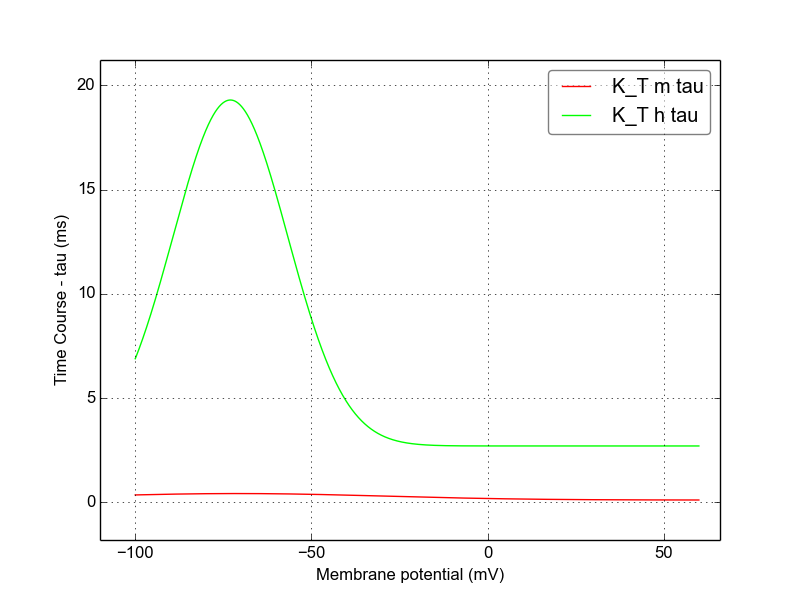
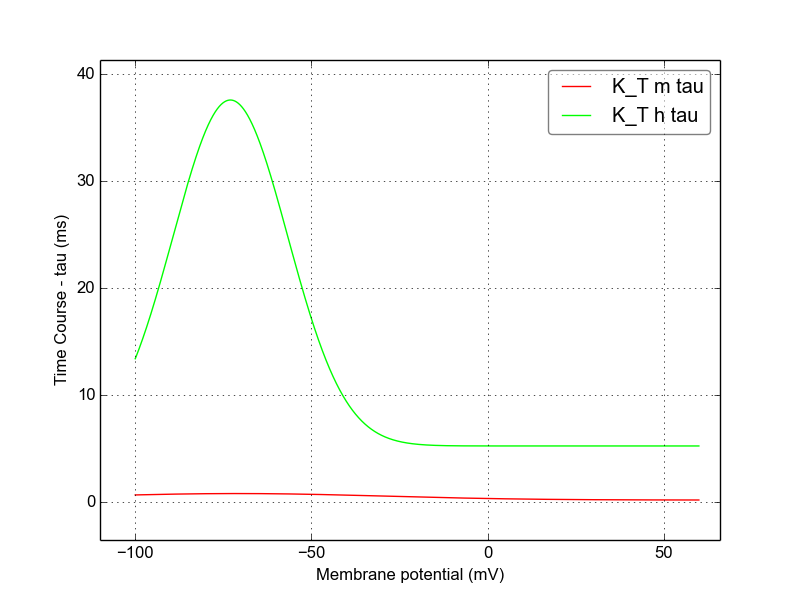
Added and tested Kv3_1.channel.nml

diff --git a/CellTypesDatabase/models/NeuroML2/channel_summary/ChannelInfo.html b/CellTypesDatabase/models/NeuroML2/channel_summary/ChannelInfo.html
@@ -2,73 +2,8 @@
     <title>Channel information</title>
     
     <body>
-        <p style="font-family:arial">Channel information at: T = 34.0 degC, E_rev = 0 mV, [Ca2+] = 0.00043 mM</p>
+        <p style="font-family:arial">Channel information at: T = 26.0 degC, E_rev = 0 mV, [Ca2+] = 0.00043 mM</p>
         <table>
-            <tr>
-        <td width="130px">
-            <p style="font-size:80%;font-family:arial"><b>NaTa</b></p>
-            <p style="font-size:80%;font-family:arial"><a href="../NaTa.channel.nml">NaTa.channel.nml</a></p>
-            <p style="font-size:80%;background-color:#1E90FF;"><b>Ion: na</b></p>
-            <p style="font-size:80%;font-family:arial">g = gmax * m<sup>3</sup> * h </p><br/>
-            <p style="font-size:80%;font-family:arial">Fast inactivating Na+ current
-Modified slightly for Allen Institute cell models from Hay et al. 2011 version:
- - Added Q10 scaling to rate variables 
- - Values for midpoint changed to match mod            
-            
-Comment from original mod file: 
-:Reference :Colbert and Pan 2002</p><br/>
-        </td>
-        <td>
-        <a href="NaTa.inf.png"><img alt="NaTa steady state" src="NaTa.inf.png" height="300"/></a>
-        </td>
-        <td>
-        <a href="NaTa.tau.png"><img alt="NaTa time course" src="NaTa.tau.png" height="300"/></a>
-        </td>
-        </tr>
-            <tr>
-        <td width="130px">
-            <p style="font-size:80%;font-family:arial"><b>NaTs</b></p>
-            <p style="font-size:80%;font-family:arial"><a href="../NaTs.channel.nml">NaTs.channel.nml</a></p>
-            <p style="font-size:80%;background-color:#1E90FF;"><b>Ion: na</b></p>
-            <p style="font-size:80%;font-family:arial">g = gmax * m<sup>3</sup> * h </p><br/>
-            <p style="font-size:80%;font-family:arial">Fast inactivating Na+ current. 
-Modified slightly for Allen Institute cell models from Hay et al. 2011 version:
- - Added Q10 scaling to rate variables 
- - Values for midpoint changed to match mod 
-            
-Comment from mod file (NaTs2_t.mod): took the NaTa and shifted both activation/inactivation by 6 mv</p><br/>
-        </td>
-        <td>
-        <a href="NaTs.inf.png"><img alt="NaTs steady state" src="NaTs.inf.png" height="300"/></a>
-        </td>
-        <td>
-        <a href="NaTs.tau.png"><img alt="NaTs time course" src="NaTs.tau.png" height="300"/></a>
-        </td>
-        </tr>
-            <tr>
-        <td width="130px">
-            <p style="font-size:80%;font-family:arial"><b>Nap</b></p>
-            <p style="font-size:80%;font-family:arial"><a href="../Nap.channel.nml">Nap.channel.nml</a></p>
-            <p style="font-size:80%;background-color:#1E90FF;"><b>Ion: na</b></p>
-            <p style="font-size:80%;font-family:arial">g = gmax * m * h </p><br/>
-            <p style="font-size:80%;font-family:arial">Persistent Na+ current
-Modified for Allen Institute cell models from Hay et al. 2011 version:
-- Form of conductance expression changed from: g = gbar * m^3 * h to: g = gbar * minf * h (comment in mod: assuming instantaneous activation as modeled by Magistretti and Alonso)
-- Added Q10 scaling to rate variables            
-
-Comment from original mod file: 
-:Comment : mtau deduced from text (said to be 6 times faster than for NaTa)
-:Comment : so I used the equations from NaT and multiplied by 6
-:Reference : Modeled according to kinetics derived from Magistretti and Alonso 1999
-:Comment: corrected rates using q10 = 2.3, target temperature 34, orginal 21</p><br/>
-        </td>
-        <td>
-        <a href="Nap.inf.png"><img alt="Nap steady state" src="Nap.inf.png" height="300"/></a>
-        </td>
-        <td>
-        <a href="Nap.tau.png"><img alt="Nap time course" src="Nap.tau.png" height="300"/></a>
-        </td>
-        </tr>
             <tr>
         <td width="130px">
             <p style="font-size:80%;font-family:arial"><b>K_P</b></p>
@@ -119,84 +54,20 @@ Comment from original mod file:
         </tr>
             <tr>
         <td width="130px">
-            <p style="font-size:80%;font-family:arial"><b>Im</b></p>
-            <p style="font-size:80%;font-family:arial"><a href="../Im.channel.nml">Im.channel.nml</a></p>
+            <p style="font-size:80%;font-family:arial"><b>Kv3_1</b></p>
+            <p style="font-size:80%;font-family:arial"><a href="../Kv3_1.channel.nml">Kv3_1.channel.nml</a></p>
             <p style="font-size:80%;background-color:#CD5C5C;"><b>Ion: k</b></p>
             <p style="font-size:80%;font-family:arial">g = gmax * m </p><br/>
-            <p style="font-size:80%;font-family:arial">Muscarinic K+ current
-Modified slightly for Allen Institute cell models from Hay et al. 2011 version:
- - Added Q10 scaling to rate variables 
+            <p style="font-size:80%;font-family:arial">Fast, non inactivating K+ current (Kv3-like)
             
 Comment from original mod file: 
-:Reference : :		Adams et al. 1982 - M-currents and other potassium currents in bullfrog sympathetic neurones
-:Comment: corrected rates using q10 = 2.3, target temperature 34, orginal 21</p><br/>
+:Reference : :		Characterization of a Shaw-related potassium channel family in rat brain, The EMBO Journal, vol.11, no.7,2473-2486 (1992)</p><br/>
         </td>
         <td>
-        <a href="Im.inf.png"><img alt="Im steady state" src="Im.inf.png" height="300"/></a>
+        <a href="Kv3_1.inf.png"><img alt="Kv3_1 steady state" src="Kv3_1.inf.png" height="300"/></a>
         </td>
         <td>
-        <a href="Im.tau.png"><img alt="Im time course" src="Im.tau.png" height="300"/></a>
-        </td>
-        </tr>
-            <tr>
-        <td width="130px">
-            <p style="font-size:80%;font-family:arial"><b>Ca_LVA</b></p>
-            <p style="font-size:80%;font-family:arial"><a href="../Ca_LVA.channel.nml">Ca_LVA.channel.nml</a></p>
-            <p style="font-size:80%;background-color:#8FBC8F;"><b>Ion: ca</b></p>
-            <p style="font-size:80%;font-family:arial">g = gmax * m<sup>2</sup> * h </p><br/>
-            <p style="font-size:80%;font-family:arial">Low voltage activated Ca2+ current
-Modified slightly for Allen Institute cell models from Hay et al. 2011 version:
- - Added Q10 scaling to rate variables 
-            
-Comment from original mod file: 
-Note: mtau is an approximation from the plots
-:Reference : :		Avery and Johnston 1996, tau from Randall 1997
-:Comment: shifted by -10 mv to correct for junction potential
-:Comment: corrected rates using q10 = 2.3, target temperature 34, orginal 21</p><br/>
-        </td>
-        <td>
-        <a href="Ca_LVA.inf.png"><img alt="Ca_LVA steady state" src="Ca_LVA.inf.png" height="300"/></a>
-        </td>
-        <td>
-        <a href="Ca_LVA.tau.png"><img alt="Ca_LVA time course" src="Ca_LVA.tau.png" height="300"/></a>
-        </td>
-        </tr>
-            <tr>
-        <td width="130px">
-            <p style="font-size:80%;font-family:arial"><b>Ca_HVA</b></p>
-            <p style="font-size:80%;font-family:arial"><a href="../Ca_HVA.channel.nml">Ca_HVA.channel.nml</a></p>
-            <p style="font-size:80%;background-color:#8FBC8F;"><b>Ion: ca</b></p>
-            <p style="font-size:80%;font-family:arial">g = gmax * m<sup>2</sup> * h </p><br/>
-            <p style="font-size:80%;font-family:arial">High voltage activated Ca2+ current. 
-NOTE: Most Allen Institute channel models from Hay et al. 2011 use Q10 scaling. This one doesn't...
-See https://github.com/OpenSourceBrain/AllenInstituteNeuroML/issues/2
-            
-Comment from original mod file: 
-Reuveni, Friedman, Amitai, and Gutnick, J.Neurosci. 1993</p><br/>
-        </td>
-        <td>
-        <a href="Ca_HVA.inf.png"><img alt="Ca_HVA steady state" src="Ca_HVA.inf.png" height="300"/></a>
-        </td>
-        <td>
-        <a href="Ca_HVA.tau.png"><img alt="Ca_HVA time course" src="Ca_HVA.tau.png" height="300"/></a>
-        </td>
-        </tr>
-            <tr>
-        <td width="130px">
-            <p style="font-size:80%;font-family:arial"><b>Ih</b></p>
-            <p style="font-size:80%;font-family:arial"><a href="../Ih.channel.nml">Ih.channel.nml</a></p>
-            <p style="font-size:80%;background-color:#A9A9A9;"><b>Ion: hcn</b></p>
-            <p style="font-size:80%;font-family:arial">g = gmax * m </p><br/>
-            <p style="font-size:80%;font-family:arial">Non-specific cation current
-            
-Comment from original mod file: 
-Reference : :		Kole,Hallermann,and Stuart, J. Neurosci. 2006</p><br/>
-        </td>
-        <td>
-        <a href="Ih.inf.png"><img alt="Ih steady state" src="Ih.inf.png" height="300"/></a>
-        </td>
-        <td>
-        <a href="Ih.tau.png"><img alt="Ih time course" src="Ih.tau.png" height="300"/></a>
+        <a href="Kv3_1.tau.png"><img alt="Kv3_1 time course" src="Kv3_1.tau.png" height="300"/></a>
         </td>
         </tr>
         </table>

diff --git a/CellTypesDatabase/models/NeuroML2/compare_nml2_mods.py b/CellTypesDatabase/models/NeuroML2/compare_nml2_mods.py
@@ -8,6 +8,7 @@ chans = ['Ca_LVA', 'NaTa']
 chans = ['K_P', 'K_T']
 chans = ['Nap']
 chans = ['Ih', 'Im']
+chans = ['Kv3_1']
 
 problematic = []
 

diff --git a/CellTypesDatabase/models/NeuroML2/channel_summary/README.md b/CellTypesDatabase/models/NeuroML2/channel_summary/README.md
@@ -1,74 +1,9 @@
 Channel information
 ===================
     
-<p style="font-family:arial">Channel information at: T = 34.0 degC, E_rev = 0 mV, [Ca2+] = 0.00043 mM</p>
+<p style="font-family:arial">Channel information at: T = 26.0 degC, E_rev = 0 mV, [Ca2+] = 0.00043 mM</p>
 
 <table>
-    <tr>
-<td width="120px">
-            <sup><b>NaTa</b><br/>
-            <a href="../NaTa.channel.nml">NaTa.channel.nml</a><br/>
-            <b>Ion: na</b><br/>
-            <i>g = gmax * m<sup>3</sup> * h </i><br/>
-            Fast inactivating Na+ current
-Modified slightly for Allen Institute cell models from Hay et al. 2011 version:
- - Added Q10 scaling to rate variables 
- - Values for midpoint changed to match mod            
-            
-Comment from original mod file: 
-:Reference :Colbert and Pan 2002</sup>
-</td>
-<td>
-<a href="NaTa.inf.png"><img alt="NaTa steady state" src="NaTa.inf.png" height="220"/></a>
-</td>
-<td>
-<a href="NaTa.tau.png"><img alt="NaTa time course" src="NaTa.tau.png" height="220"/></a>
-</td>
-</tr>
-    <tr>
-<td width="120px">
-            <sup><b>NaTs</b><br/>
-            <a href="../NaTs.channel.nml">NaTs.channel.nml</a><br/>
-            <b>Ion: na</b><br/>
-            <i>g = gmax * m<sup>3</sup> * h </i><br/>
-            Fast inactivating Na+ current. 
-Modified slightly for Allen Institute cell models from Hay et al. 2011 version:
- - Added Q10 scaling to rate variables 
- - Values for midpoint changed to match mod 
-            
-Comment from mod file (NaTs2_t.mod): took the NaTa and shifted both activation/inactivation by 6 mv</sup>
-</td>
-<td>
-<a href="NaTs.inf.png"><img alt="NaTs steady state" src="NaTs.inf.png" height="220"/></a>
-</td>
-<td>
-<a href="NaTs.tau.png"><img alt="NaTs time course" src="NaTs.tau.png" height="220"/></a>
-</td>
-</tr>
-    <tr>
-<td width="120px">
-            <sup><b>Nap</b><br/>
-            <a href="../Nap.channel.nml">Nap.channel.nml</a><br/>
-            <b>Ion: na</b><br/>
-            <i>g = gmax * m * h </i><br/>
-            Persistent Na+ current
-Modified for Allen Institute cell models from Hay et al. 2011 version:
-- Form of conductance expression changed from: g = gbar * m^3 * h to: g = gbar * minf * h (comment in mod: assuming instantaneous activation as modeled by Magistretti and Alonso)
-- Added Q10 scaling to rate variables            
-
-Comment from original mod file: 
-:Comment : mtau deduced from text (said to be 6 times faster than for NaTa)
-:Comment : so I used the equations from NaT and multiplied by 6
-:Reference : Modeled according to kinetics derived from Magistretti and Alonso 1999
-:Comment: corrected rates using q10 = 2.3, target temperature 34, orginal 21</sup>
-</td>
-<td>
-<a href="Nap.inf.png"><img alt="Nap steady state" src="Nap.inf.png" height="220"/></a>
-</td>
-<td>
-<a href="Nap.tau.png"><img alt="Nap time course" src="Nap.tau.png" height="220"/></a>
-</td>
-</tr>
     <tr>
 <td width="120px">
             <sup><b>K_P</b><br/>
@@ -119,84 +54,20 @@ Comment from original mod file:
 </tr>
     <tr>
 <td width="120px">
-            <sup><b>Im</b><br/>
-            <a href="../Im.channel.nml">Im.channel.nml</a><br/>
+            <sup><b>Kv3_1</b><br/>
+            <a href="../Kv3_1.channel.nml">Kv3_1.channel.nml</a><br/>
             <b>Ion: k</b><br/>
             <i>g = gmax * m </i><br/>
-            Muscarinic K+ current
-Modified slightly for Allen Institute cell models from Hay et al. 2011 version:
- - Added Q10 scaling to rate variables 
+            Fast, non inactivating K+ current (Kv3-like)
             
 Comment from original mod file: 
-:Reference : :		Adams et al. 1982 - M-currents and other potassium currents in bullfrog sympathetic neurones
-:Comment: corrected rates using q10 = 2.3, target temperature 34, orginal 21</sup>
+:Reference : :		Characterization of a Shaw-related potassium channel family in rat brain, The EMBO Journal, vol.11, no.7,2473-2486 (1992)</sup>
 </td>
 <td>
-<a href="Im.inf.png"><img alt="Im steady state" src="Im.inf.png" height="220"/></a>
+<a href="Kv3_1.inf.png"><img alt="Kv3_1 steady state" src="Kv3_1.inf.png" height="220"/></a>
 </td>
 <td>
-<a href="Im.tau.png"><img alt="Im time course" src="Im.tau.png" height="220"/></a>
-</td>
-</tr>
-    <tr>
-<td width="120px">
-            <sup><b>Ca_LVA</b><br/>
-            <a href="../Ca_LVA.channel.nml">Ca_LVA.channel.nml</a><br/>
-            <b>Ion: ca</b><br/>
-            <i>g = gmax * m<sup>2</sup> * h </i><br/>
-            Low voltage activated Ca2+ current
-Modified slightly for Allen Institute cell models from Hay et al. 2011 version:
- - Added Q10 scaling to rate variables 
-            
-Comment from original mod file: 
-Note: mtau is an approximation from the plots
-:Reference : :		Avery and Johnston 1996, tau from Randall 1997
-:Comment: shifted by -10 mv to correct for junction potential
-:Comment: corrected rates using q10 = 2.3, target temperature 34, orginal 21</sup>
-</td>
-<td>
-<a href="Ca_LVA.inf.png"><img alt="Ca_LVA steady state" src="Ca_LVA.inf.png" height="220"/></a>
-</td>
-<td>
-<a href="Ca_LVA.tau.png"><img alt="Ca_LVA time course" src="Ca_LVA.tau.png" height="220"/></a>
-</td>
-</tr>
-    <tr>
-<td width="120px">
-            <sup><b>Ca_HVA</b><br/>
-            <a href="../Ca_HVA.channel.nml">Ca_HVA.channel.nml</a><br/>
-            <b>Ion: ca</b><br/>
-            <i>g = gmax * m<sup>2</sup> * h </i><br/>
-            High voltage activated Ca2+ current. 
-NOTE: Most Allen Institute channel models from Hay et al. 2011 use Q10 scaling. This one doesn't...
-See https://github.com/OpenSourceBrain/AllenInstituteNeuroML/issues/2
-            
-Comment from original mod file: 
-Reuveni, Friedman, Amitai, and Gutnick, J.Neurosci. 1993</sup>
-</td>
-<td>
-<a href="Ca_HVA.inf.png"><img alt="Ca_HVA steady state" src="Ca_HVA.inf.png" height="220"/></a>
-</td>
-<td>
-<a href="Ca_HVA.tau.png"><img alt="Ca_HVA time course" src="Ca_HVA.tau.png" height="220"/></a>
-</td>
-</tr>
-    <tr>
-<td width="120px">
-            <sup><b>Ih</b><br/>
-            <a href="../Ih.channel.nml">Ih.channel.nml</a><br/>
-            <b>Ion: hcn</b><br/>
-            <i>g = gmax * m </i><br/>
-            Non-specific cation current
-            
-Comment from original mod file: 
-Reference : :		Kole,Hallermann,and Stuart, J. Neurosci. 2006</sup>
-</td>
-<td>
-<a href="Ih.inf.png"><img alt="Ih steady state" src="Ih.inf.png" height="220"/></a>
-</td>
-<td>
-<a href="Ih.tau.png"><img alt="Ih time course" src="Ih.tau.png" height="220"/></a>
+<a href="Kv3_1.tau.png"><img alt="Kv3_1 time course" src="Kv3_1.tau.png" height="220"/></a>
 </td>
 </tr>
 </table>
